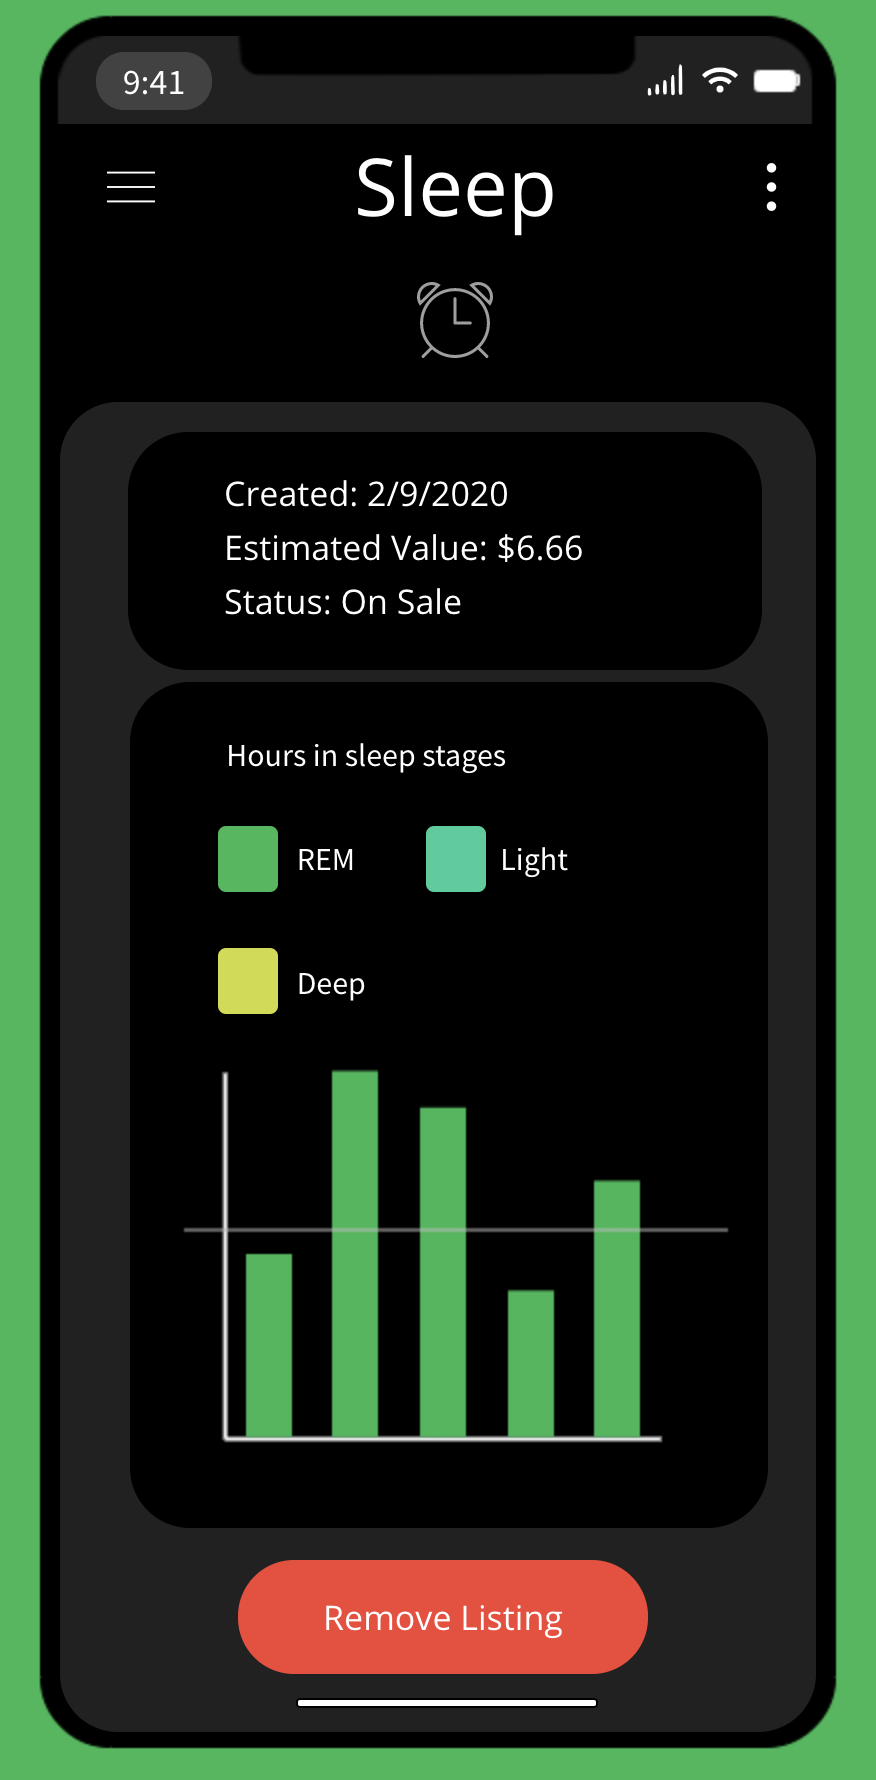
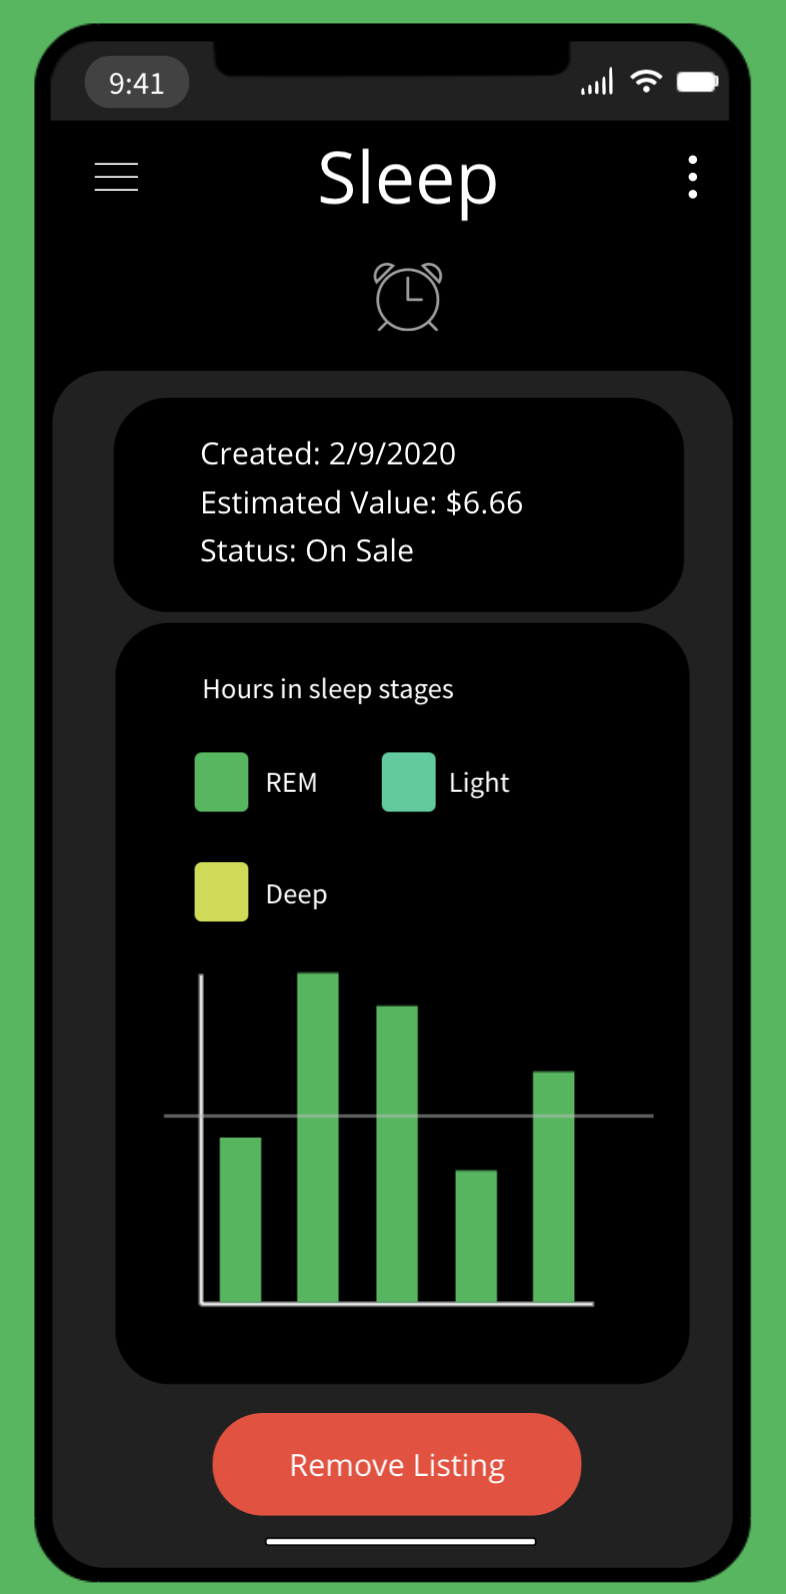
fixed final page

diff --git a/final.html b/final.html
@@ -95,12 +95,9 @@
 						<p>Insert paragraph here</p>
 						<table class="final_img_table">
 							<tr">
-								<th><img class="final_img" src="images/finalUI/addListing/dashboard.png" alt="" /></th>
-								<th><img class="final_img" src="images/finalUI/addListing/currentListing.png" alt="" /></th>
+								<th><img class="settings_img" src="images/finalUI/addListing/dashboard.png" alt="" /></th>
+								<th><img class="settings_img" src="images/finalUI/addListing/currentListing.png" alt="" /></th>
 								<th><img class="final_img" src="images/finalUI/viewListing/sleep.png" alt="" /></th>
-								<th><img class="final_img" src="" alt="" /></th>
-								<th><img class="final_img" src="" alt="" /></th>
-								<th><img class="final_img" src="" alt="" /></th>
 							</tr>
 						</table>
 						<h3>Side bar and Settings</h3>
@@ -111,9 +108,9 @@
 						</p>
 						<table class="final_img_table">
 							<tr">
-								<th><img class="final_img" src="images/finalUI/viewListing/sleep.png" alt="" /></th>
-								<th><img class="final_img" src="images/finalUI/settings/green.png" alt="" /></th>
-								<th><img class="final_img" src="images/finalUI/viewListing/sleep.png" alt="" /></th>
+								<th><img class="settings_img" src="images/finalUI/addListing/dashboard.png" alt="" /></th>
+								<th><img class="final_img" src="images/finalUI/settings/sidenav.png" alt="" /></th>
+								<th><img class="final_img" src="images/finalUI/settings/settings.png" alt="" /></th>
 							</tr>
 						</table>
 						<hr />

diff --git a/assets/css/main.css b/assets/css/main.css
@@ -2851,10 +2851,18 @@ body.is-menu-visible #menu {
 }
 
 .final_img {
-  max-width: 105%;
+  max-width: 100%;
+  max-height: 100%;
+}
+
+.settings_img {
+  max-width: 95%;
+  max-height: 95%;
 }
 
 .final_img_table tr th {
+  max-width: 100%;
+  max-height: 100%;
   background-color: #1db954;
   border: 1px solid #1db954;
 }
